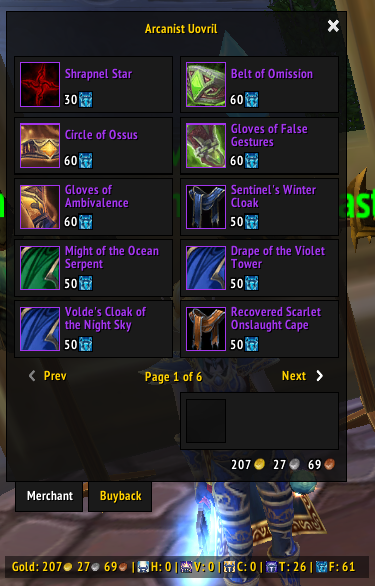
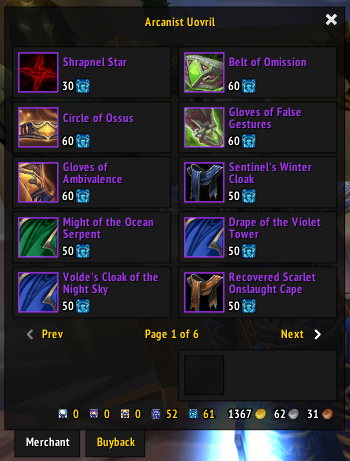
Update Emblem of Gold

diff --git a/README.md b/README.md
@@ -271,9 +271,9 @@ Also it opens the Auctionhouse instant, instead of clicking manually on the Goss
 <img src="https://i.ibb.co/WzPWxH1/Dalaran-AH2.png" alt="Dalaran-AH2" border="0"> <img src="https://i.ibb.co/JKZmkjP/Dalaran-AH.png" alt="Dalaran-AH" border="0"><br/>
 [Github](https://github.com/NoM0Re/DalaranAH/)<br/>
 
-## **Emblem of Gold**
+## **Emblem of Gold V2 **
 Emblem of Gold is a simple World of Warcraft addon that shows your gold and emblem counts (Heroism, Valor, Conquest, Triumph, Frost) when you open a vendor.<br/>
-[Download](https://github.com/Stradios/Emblem-of-Gold/archive/refs/heads/main.zip)<br/><br/>
+[Download](https://github.com/Stradios/Emblem-of-Gold/releases/latest)<br/><br/>
 ![Screenshot](https://github.com/NoM0Re/WoW-3.3.5a-Addons/blob/main/src/Pictures/EmblemOfGold.png)<br/>
 [Github](https://github.com/Stradios/Emblem-of-Gold)<br/>
 
